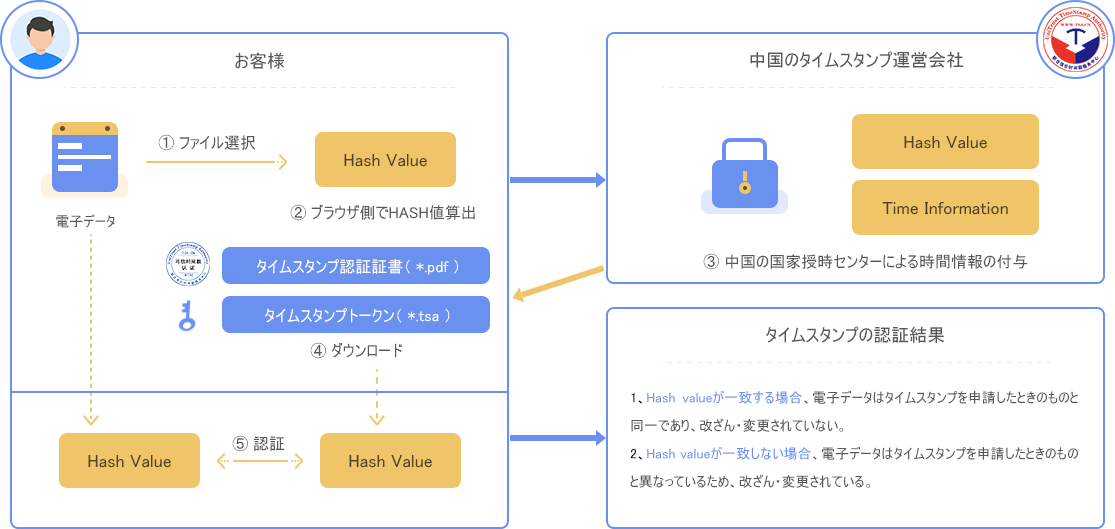
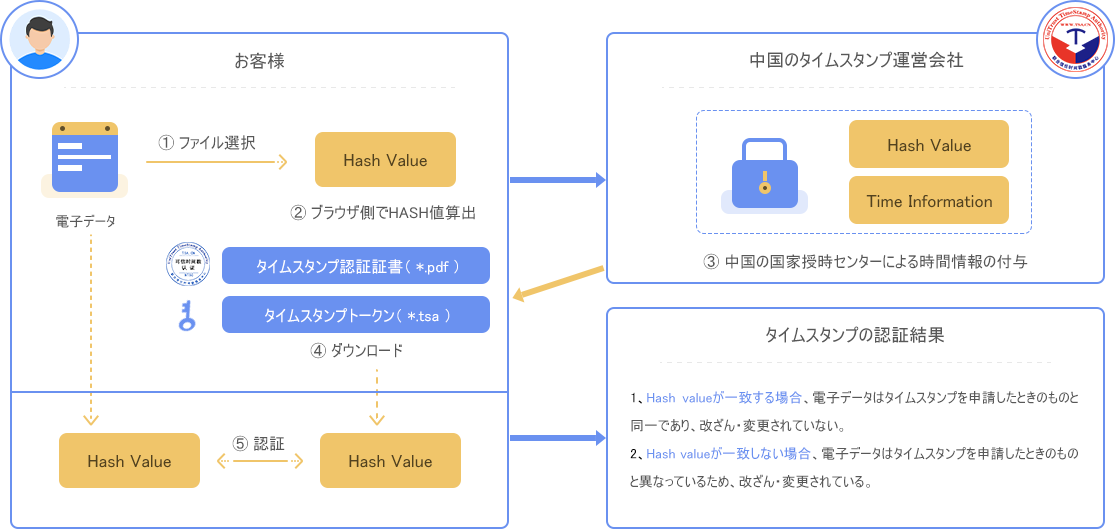
首页流程图更换

diff --git a/src/views/page/verification.vue b/src/views/page/verification.vue
@@ -250,7 +250,7 @@ export default {
                return false;
             }
             if(!this.tsa[0]){
-                this.$message.error('認証証書を選択してください→タイムスタンプトークン（.tsa）を選択してください');
+                this.$message.error('タイムスタンプトークン（.tsa）を選択してください');
                 return false;
             }
             // let size1 = Math.floor(this.fileName[0].size);

diff --git a/src/views/page/index.vue b/src/views/page/index.vue
@@ -46,7 +46,7 @@
             <div class="apply-process">
                 <h3>トラステッド・タイムスタンプの申請と認証の仕組み</h3>
                 <p>
-                    <img src="@/assets/images/Principle.jpg" alt="">
+                    <img src="@/assets/images/Principle.png" alt="">
                 </p>
             </div>
             <!-- <div class="auth-process">
